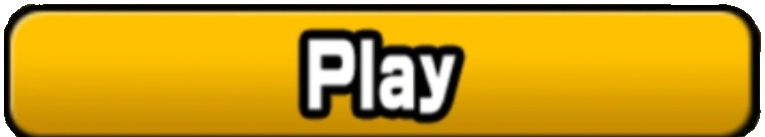
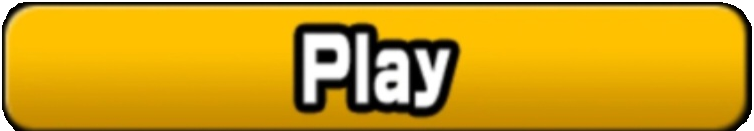
Tighten the Play button crop and revert Credits
The Play button's background removal was leaving a pale JPEG-halo
fringe around its black outline, visible at the button's larger size.
Re-cropped with a looser white threshold and heavier dilation so the
edge is clean, and updated the CSS aspect-ratio to match the new crop.

Reverted Credits back to its original plain dark button — the pill-art
version wasn't wanted.

Changed region(s): [[0.0, 0.0, 1.0, 1.0], [0.366, 0.1527, 0.6101, 0.916]]

diff --git a/apps/teacher-tower-defence/src/styles.css b/apps/teacher-tower-defence/src/styles.css
@@ -285,7 +285,7 @@ html, body {
    made transparent instead of drawing a second label on top of it. */
 .ttd-start-btn {
   width: min(460px, 84vw);
-  aspect-ratio: 765 / 137;
+  aspect-ratio: 754 / 131;
   padding: 0;
   color: transparent;
   border: none;
@@ -297,20 +297,7 @@ html, body {
   0%, 100% { box-shadow: 0 4px 0 #8a5c14, 0 8px 18px rgba(255, 180, 84, 0.25); }
   50% { box-shadow: 0 4px 0 #8a5c14, 0 8px 26px rgba(255, 180, 84, 0.55); }
 }
-/* Same treatment as the Play button and the menu screen's nav buttons —
-   the player's own drawn pill graphic (background removed, baked-in
-   text erased) with a real "CREDITS" label on top, sized to the
-   image's own aspect ratio so it isn't stretched/squished. */
-.ttd-credits-btn {
-  width: min(360px, 74vw);
-  aspect-ratio: 765 / 139;
-  padding: 0;
-  font-family: 'Russo One', sans-serif;
-  font-size: 20px;
-  letter-spacing: 0.04em;
-  border: none;
-  background: url('../assets/menu_button_pill.png') center / 100% 100% no-repeat;
-}
+.ttd-credits-btn { padding: 10px 36px; font-size: 14px; background: linear-gradient(165deg, #3a2c14, #241708); }
 .ttd-howto {
   margin-top: 10px;
   display: flex;
